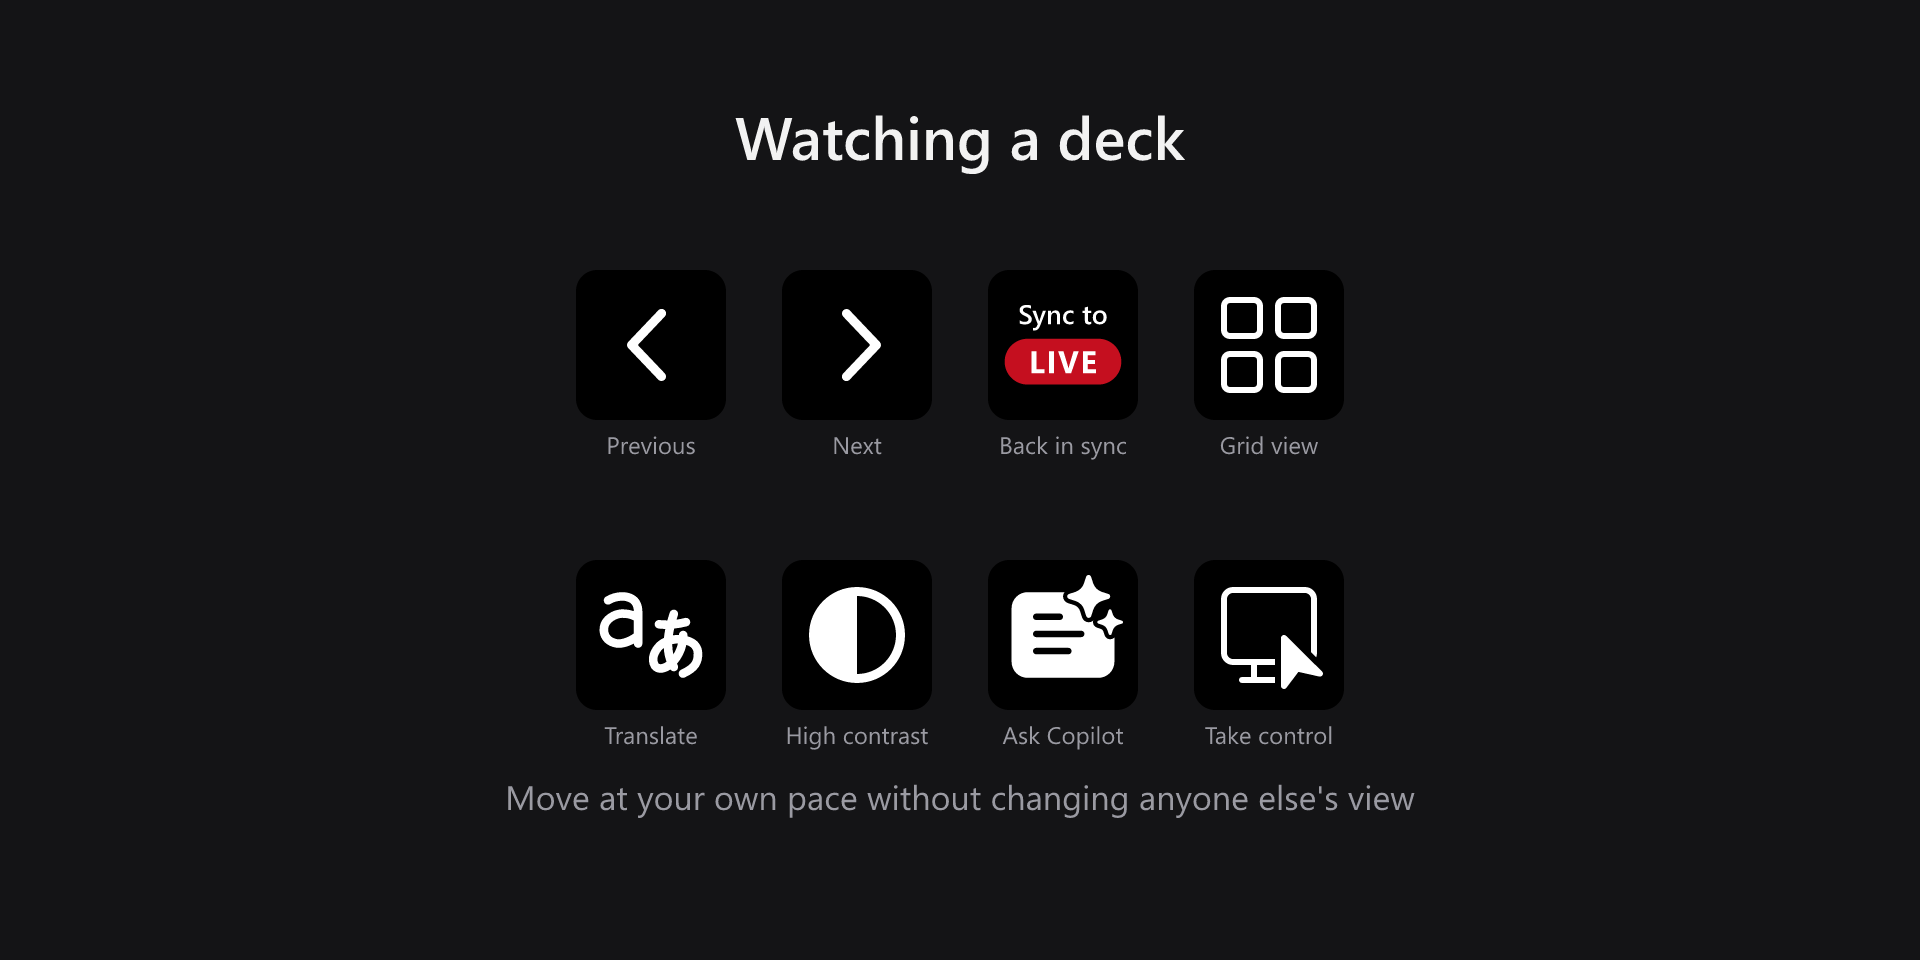
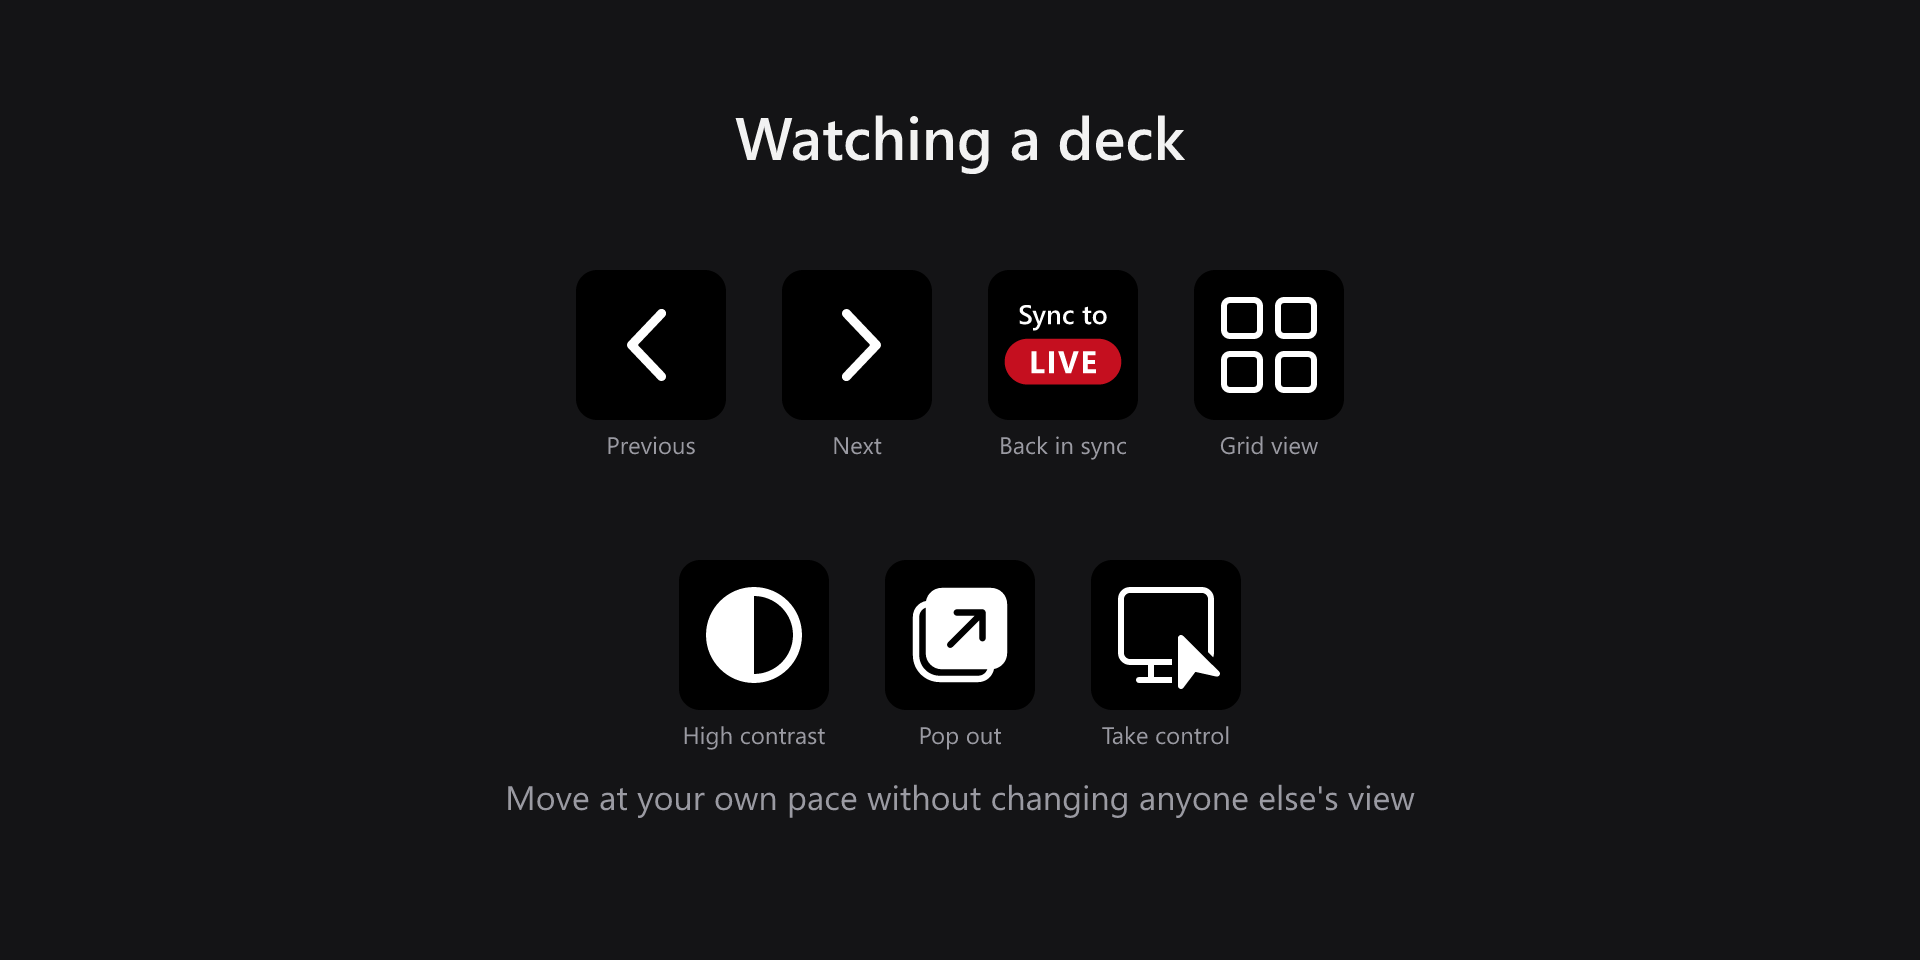
Withdraw Translate slides and Ask Copilot
Neither worked reliably enough to ship. Pulling them rather than leaving two
keys that look available and disappoint.

Removed everywhere they were reachable, not just from the action list: the
actions and their registrations, the sidecar selectors, the shipped
selectors.json, the glyphs, the generated artwork, the translate inspector and
both property-inspector descriptions. Thirty-five actions become thirty-three.

They also sat at 1,1 and 2,1 on the attendee profile. Rather than leave holes,
Pop out and Take control move left and the row is completed with Share and
Background blur - the meeting controls an attendee is most likely to want
while someone else drives the deck.

Copy went with them. The listing description, both release-notes blocks, the
repository README and the key table all advertised translation in 19 languages
and asking Copilot. The gallery item for watching a deck was regenerated, since
it showed both keys.

Two things found while doing it:

- The manifest Description has been mojibake since before this change - an em
  dash stored as three CP1252 characters, so Stream Deck was displaying
  "more â€" with live state". Fixed, and reworded to a comma so an edit through
  a tool that guesses the encoding cannot reintroduce it.
- A C# test used ppt-translate as its example of a two-level menu. The parser
  still supports nesting and selectors.json is user-editable, so the coverage
[…]

Changed region(s): [[0.3125, 0.5938, 0.6875, 0.7188], [0.3125, 0.75, 0.6875, 0.7812]]

diff --git a/src/actions/powerpoint.ts b/src/actions/powerpoint.ts
@@ -107,12 +107,6 @@ export class PptPopoutAction extends PptAction {
 	protected override readonly glyph = "pptPopout";
 }
 
-@action({ UUID: "com.bad-duck.teamscontrol.ppt-copilot" })
-export class PptCopilotAction extends PptAction {
-	protected override readonly control = "ppt-copilot";
-	protected override readonly glyph = "pptCopilot";
-}
-
 /**
  * Views the slides in high contrast, for you only.
  *
@@ -167,40 +161,7 @@ export class PptSyncAction extends TeamsAction {
 	}
 
 	protected override draw(state: TeamsState): string {
-		// Gold rather than white: this key lighting up means you are out of step
-		// with the presenter, not merely that a control is available.
 		return renderLive(usable(state, "ppt-sync"));
-	}
-}
-
-type TranslateSettings = {
-	/**
-	 * Teams' own id for the language, which is the endonym ("Deutsch",
-	 * "日本語"), plus "Original" to turn translation back off. Stored rather
-	 * than a locale code because the id is what the menu item carries.
-	 */
-	language?: string;
-};
-
-const DEFAULT_LANGUAGE = "Original";
-
-/**
- * Translates the shared slides. One action covers every language: the sidecar
- * substitutes the chosen value into the menu-item selector, so adding a
- * language Teams later ships needs no plugin change.
- */
-@action({ UUID: "com.bad-duck.teamscontrol.ppt-translate" })
-export class PptTranslateAction extends TeamsAction<TranslateSettings> {
-	protected override targetFor(): string {
-		return "ppt-translate";
-	}
-
-	protected override argFor(settings: TranslateSettings): string {
-		return settings.language || DEFAULT_LANGUAGE;
-	}
-
-	protected override draw(state: TeamsState): string {
-		return renderSimple("pptTranslate", usable(state, "ppt-translate"));
 	}
 }
 

diff --git a/com.bad-duck.teamscontrol.sdPlugin/ui/action-descriptions.js b/com.bad-duck.teamscontrol.sdPlugin/ui/action-descriptions.js
@@ -62,8 +62,6 @@ globalThis.ACTION_DESCRIPTIONS = {
 	"com.bad-duck.teamscontrol.ppt-high-contrast":
 		"Switches the slides to high contrast for you only - the presenter and everyone else see them unchanged. A toggle, so the key shows whether it is on.",
 
-	"com.bad-duck.teamscontrol.ppt-translate":
-		"Translates the slides into the language chosen below, for your view only. Attendee only. Teams offers a language only once the presenter's deck has been processed, so one it is not ready for is reported as a failed press.",
 
 	"com.bad-duck.teamscontrol.ppt-take-control":
 		"Takes control of a deck someone else is presenting. Attendee only, and the one key that changes your role: a successful press makes you the presenter, which dims this key and lights up the presenter keys.",
@@ -71,8 +69,6 @@ globalThis.ACTION_DESCRIPTIONS = {
 	"com.bad-duck.teamscontrol.ppt-popout":
 		"Moves the shared content into its own window, so you can put it on another screen.",
 
-	"com.bad-duck.teamscontrol.ppt-copilot":
-		"Opens Copilot for the deck, so you can select and drag text on a slide to ask about it. Attendee only.",
 
 	"com.bad-duck.teamscontrol.ppt-laser":
 		"Selects the laser pointer. The drawing tools are a single-select group, so the key lights while this is the active tool and follows the tool you pick in Teams' own toolbar. The key is drawn in the colour the pointer will actually use. Presenter only.",

diff --git a/src/plugin.ts b/src/plugin.ts
@@ -16,7 +16,6 @@ import {
 	ShareAction
 } from "./actions/controls";
 import {
-	PptCopilotAction,
 	PptCopyLinkAction,
 	PptCursorAction,
 	PptEraserAction,
@@ -36,8 +35,7 @@ import {
 	PptStatusAction,
 	PptStopPresentingAction,
 	PptSyncAction,
-	PptTakeControlAction,
-	PptTranslateAction
+	PptTakeControlAction
 } from "./actions/powerpoint";
 import { bridge } from "./bridge";
 import { profileSwitcher } from "./profiles";
@@ -65,10 +63,8 @@ streamDeck.actions.registerAction(new PptStatusAction());
 streamDeck.actions.registerAction(new PptSyncAction());
 streamDeck.actions.registerAction(new PptGridAction());
 streamDeck.actions.registerAction(new PptHighContrastAction());
-streamDeck.actions.registerAction(new PptTranslateAction());
 streamDeck.actions.registerAction(new PptTakeControlAction());
 streamDeck.actions.registerAction(new PptPopoutAction());
-streamDeck.actions.registerAction(new PptCopilotAction());
 
 // PowerPoint Live, presenting. Unavailable unless you are the one sharing.
 streamDeck.actions.registerAction(new PptCursorAction());

diff --git a/tools/build-profile.ts b/tools/build-profile.ts
@@ -82,12 +82,12 @@ const PROFILES: Profile[] = [
 			"4,0": { action: "ppt-high-contrast", name: "PPT Live: High Contrast" },
 
 			"0,1": { action: "ppt-sync", name: "PPT Attendee: Sync" },
-			"1,1": { action: "ppt-translate", name: "PPT Attendee: Translate Slides" },
-			"2,1": { action: "ppt-copilot", name: "PPT Attendee: Ask Copilot" },
-			"3,1": { action: "ppt-popout", name: "PPT Live: Pop Out" },
+			"1,1": { action: "ppt-popout", name: "PPT Live: Pop Out" },
 			// Taking control makes you the presenter, which swaps this whole
 			// profile out for the presenter one.
-			"4,1": { action: "ppt-take-control", name: "PPT Attendee: Take Control" },
+			"2,1": { action: "ppt-take-control", name: "PPT Attendee: Take Control" },
+			"3,1": { action: "share", name: "Share Screen" },
+			"4,1": { action: "blur", name: "Background Blur" },
 
 			// The meeting basics stay reachable, so being moved onto a
 			// presentation layout never costs you the mute key.

diff --git a/tools/build-glyphs.ts b/tools/build-glyphs.ts
@@ -62,7 +62,6 @@ const CONTROLS: Record<string, string> = {
 	// fills the left half, which is why the earlier stand-in needed rotating and
 	// this does not.
 	pptContrast: "dark_theme_20_filled",
-	pptTranslate: "translate_28_filled",
 	// Captured from the live attendee toolbar on 2026-09-18: Teams draws a
 	// monitor with a cursor, not a pointing hand. Outline rather than filled,
 	// matching the toolbar's resting state. Teams ships this icon re-minified -
@@ -71,7 +70,6 @@ const CONTROLS: Record<string, string> = {
 	// at the shape calls it what it is.
 	pptTakeControl: "desktop_cursor_20_regular",
 	pptPopout: "window_new_28_filled",
-	pptCopilot: "slide_text_sparkle_28_filled",
 	pptSlide: "slide_text_28_filled",
 
 	// Presenter tools, drawn in PowerPoint Live's own colours (see TOOL_COLORS).

diff --git a/tools/generate-icons.ts b/tools/generate-icons.ts
@@ -33,10 +33,8 @@ const ACTIONS: Record<string, { glyph: string; danger?: boolean }> = {
 	"ppt-sync": { glyph: "pptSync" },
 	"ppt-grid": { glyph: "pptGrid" },
 	"ppt-high-contrast": { glyph: "pptContrast" },
-	"ppt-translate": { glyph: "pptTranslate" },
 	"ppt-take-control": { glyph: "pptTakeControl" },
 	"ppt-popout": { glyph: "pptPopout" },
-	"ppt-copilot": { glyph: "pptCopilot" },
 
 	// PowerPoint Live, presenting. The five drawing tools are handled separately
 	// below: they ship Teams' own artwork rather than a Fluent stand-in.

diff --git a/tools/generate-marketplace.ts b/tools/generate-marketplace.ts
@@ -297,9 +297,8 @@ function galleryWatching(): string {
 
 	body += row(
 		[
-			{ svg: renderSimple("pptTranslate", true), caption: "Translate" },
 			{ svg: renderSimple("pptContrast", true), caption: "High contrast" },
-			{ svg: renderSimple("pptCopilot", true), caption: "Ask Copilot" },
+			{ svg: renderSimple("pptPopout", true), caption: "Pop out" },
 			{ svg: renderSimple("pptTakeControl", true), caption: "Take control" }
 		],
 		560,

diff --git a/sidecar/tests/SelectorConfigTests.cs b/sidecar/tests/SelectorConfigTests.cs
@@ -243,24 +243,27 @@ public class SelectorConfigTests : IDisposable
     }
 
     [Fact]
-    public void ParseConfig_reads_the_two_level_menu_fields_slide_translation_needs()
+    public void ParseConfig_reads_the_two_level_menu_fields_a_nested_item_needs()
     {
+        // No shipped control is nested two levels deep now that slide
+        // translation has been withdrawn, but the parser still supports it and
+        // a selectors.json is user-editable, so the fields stay covered.
         var cfg = Program.ParseConfig("""
             {
               "controls": {
-                "ppt-translate": {
+                "nested-example": {
                   "menu": "toolbarChangeViewButton",
-                  "submenu": "toolbarTranslateSlidesOverflowButton",
-                  "menuItemAutomationId": "toolbarTranslateSlidesLanguageMenuItem-{arg}"
+                  "submenu": "someOverflowButton",
+                  "menuItemAutomationId": "someLanguageMenuItem-{arg}"
                 }
               }
             }
             """);
 
-        var spec = cfg!.Controls["ppt-translate"];
+        var spec = cfg!.Controls["nested-example"];
         Assert.Equal("toolbarChangeViewButton", spec.Menu);
-        Assert.Equal("toolbarTranslateSlidesOverflowButton", spec.Submenu);
-        Assert.Equal("toolbarTranslateSlidesLanguageMenuItem-{arg}", spec.MenuItemAutomationId);
+        Assert.Equal("someOverflowButton", spec.Submenu);
+        Assert.Equal("someLanguageMenuItem-{arg}", spec.MenuItemAutomationId);
     }
 
     [Fact]
@@ -588,8 +591,8 @@ public class SelectorConfigTests : IDisposable
 
         var hosted = new[]
         {
-            "ppt-prev", "ppt-next", "ppt-grid", "ppt-sync", "ppt-copilot",
-            "ppt-high-contrast", "ppt-translate", "ppt-hide-presenter-view",
+            "ppt-prev", "ppt-next", "ppt-grid", "ppt-sync",
+            "ppt-high-contrast", "ppt-hide-presenter-view",
             "ppt-refresh", "ppt-copy-link",
             "ppt-cursor", "ppt-laser", "ppt-pen", "ppt-highlighter", "ppt-eraser"
         };

diff --git a/sidecar/Defaults.cs b/sidecar/Defaults.cs
@@ -114,7 +114,6 @@ public static class Defaults
             // slide, so its presence is exactly the "viewing privately" signal.
             ["ppt-sync"] = new() { AutomationId = "syncToPresenterToolbarButton", Surface = "slideShow" },
 
-            ["ppt-copilot"] = new() { AutomationId = "inkToExplainToolbarButton", Surface = "slideShow" },
 
             // Moves the shared content into its own window.
             ["ppt-popout"] = new() { AutomationId = "popout-content-button" },
@@ -139,23 +138,6 @@ public static class Defaults
                 MenuItemAutomationId = "toolbarHighContrastOverflowButton"
             },
 
-            // Slide translation sits one level deeper, behind "Translate
-            // slides". "{arg}" is replaced with the language the key is set to;
-            // the ids are endonyms ("Deutsch", "日本語") and "Original" turns
-            // translation back off, so they are stable across Teams' own
-            // display language.
-            //
-            // Attendee-only: a presenter's "Change view" menu has no translation
-            // entry at all, since translating your own deck for yourself would
-            // mean nothing.
-            ["ppt-translate"] = new()
-            {
-                Surface = "slideShow",
-                Menu = "toolbarChangeViewButton",
-                Submenu = "toolbarTranslateSlidesOverflowButton",
-                MenuItemAutomationId = "toolbarTranslateSlidesLanguageMenuItem-{arg}",
-                RequiresRole = "attendee"
-            },
 
             // ---- PowerPoint Live, presenting ----
             // Captured while presenting on 2026-09-17. Note that zoom above is

diff --git a/marketplace/README.md b/marketplace/README.md
@@ -49,7 +49,7 @@ carry the requirements and the differentiator rather than a preamble.
 ```
 Control Microsoft Teams meetings from your Stream Deck: mute, camera, raise hand, the five reactions, background blur, screen share, chat, people and leave. Every key shows the real state of the meeting, so a muted mic looks muted before you press it.
 
-Full PowerPoint Live control too. Watching a deck? Move through slides at your own pace, jump back in sync with the presenter, open grid view, ask Copilot, or translate the slides into 19 languages, all without touching anyone else's view. Presenting? Slide navigation, laser pointer, pen, highlighter and eraser, presenter view, private view, layout and stop sharing, with a live slide counter on the key. Keys follow your role, so taking control mid-meeting re-lights the deck for presenting.
+Full PowerPoint Live control too. Watching a deck? Move through slides at your own pace, jump back in sync with the presenter, open grid view, or pop the deck into its own window, all without touching anyone else's view. Presenting? Slide navigation, laser pointer, pen, highlighter and eraser, presenter view, private view, layout and stop sharing, with a live slide counter on the key. Keys follow your role, so taking control mid-meeting re-lights the deck for presenting.
 
 Three bundled profiles can follow the meeting on their own: meeting controls when you join, attendee or presenter tools when a deck goes up, and back again when it ends.
 
@@ -60,7 +60,7 @@ Keys dim when no meeting is running, so there is nothing to press by mistake.
 Requires Windows 10 or later, Stream Deck 7.1 or later, and the Microsoft Teams desktop app. Windows only. Not affiliated with or endorsed by Microsoft.
 ```
 
-1,405 characters, within the 1,500 limit and above the 250 minimum. The opening
+1,386 characters, within the 1,500 limit and above the 250 minimum. The opening
 two sentences run to 251 characters, so the search-engine snippet reads as
 complete sentences rather than breaking mid-clause.
 
@@ -139,9 +139,9 @@ someone who has the plugin installed but has never read a commit.
 PowerPoint Live control, and profiles that follow the meeting.
 
 POWERPOINT LIVE
-Twenty-two new actions.
+Twenty new actions.
 
-Watching a deck: move through slides at your own pace, jump back in sync with the presenter, grid view, high contrast, pop out, ask Copilot, translate into 19 languages, and take control.
+Watching a deck: move through slides at your own pace, jump back in sync with the presenter, grid view, high contrast, pop out, and take control.
 
 Presenting: laser pointer, pen, highlighter, eraser, cursor, presenter view, private view, present the latest version, copy link, layout, and stop sharing, with a live slide counter on the key. Ink keys show the colour you picked in Teams.
 
@@ -157,7 +157,7 @@ REQUIREMENTS
 Windows 10 or later, Stream Deck 7.1 or later, and the Microsoft Teams desktop app. Windows only.
 ```
 
-1,330 characters, within the 1,500 limit.
+1,284 characters, within the 1,500 limit.
 
 ### First-release notes — reference only
 
@@ -173,7 +173,7 @@ MEETINGS
 Mute, camera, raise hand, five reactions (like, love, applause, laugh, wow), background blur, screen share, chat, people, and leave.
 
 POWERPOINT LIVE
-Watching a deck: move through slides at your own pace, jump back in sync with the presenter, grid view, high contrast, pop out, ask Copilot, translate into 19 languages, and take control.
+Watching a deck: move through slides at your own pace, jump back in sync with the presenter, grid view, high contrast, pop out, and take control.
 
 Presenting: laser pointer, pen, highlighter, eraser, cursor, presenter view, private view, present the latest version, copy link, layout, and stop sharing, with a live slide counter on the key.
 
@@ -194,7 +194,7 @@ Windows 10 or later, Stream Deck 7.1 or later, and the Microsoft Teams desktop a
 Not affiliated with or endorsed by Microsoft.
 ```
 
-1,491 characters, within the 1,500 limit. It describes the plugin as it stands
+1,449 characters, within the 1,500 limit. It describes the plugin as it stands
 rather than what changed, because a first-time reader has no previous build to
 compare against.
 

diff --git a/README.md b/README.md
@@ -84,8 +84,6 @@ reports itself unavailable in the other one.
 |---|---|---|
 | **PPT Live: Sync to Presenter** | ✅ lights up when out of sync | Teams only shows this button once you have browsed away, so the key being lit *is* the "you are viewing privately" signal |
 | **PPT Live: Take Control** | availability only | ⚠ Makes you the presenter — see below |
-| **PPT Live: Translate Slides** | availability only | 20 languages, chosen per key. Your screen only |
-| **PPT Live: Ask Copilot** | availability only | Select and drag slide text to ask Copilot about it |
 
 **Driving (presenter)**
 
@@ -103,7 +101,7 @@ reports itself unavailable in the other one.
 
 **Take control** is the one key that changes which set you get. Press it as an
 attendee and Teams makes you the presenter: that key retires, *Sync to
-presenter*, *Translate* and *Ask Copilot* go with it, and the drawing tools,
+presenter* goes with it, and the drawing tools,
 *Private view* and *Stop presenting* light up in their place.
 
 That switch lands a moment after the press returns, so the sidecar takes a
@@ -122,7 +120,7 @@ meeting goes:
 | when | profile |
 |---|---|
 | You join a meeting | **Teams Meeting** — mute, camera, reactions, chat, leave |
-| A deck starts, and you are watching | **PowerPoint Live (Attendee)** — navigation, sync, translate, take control |
+| A deck starts, and you are watching | **PowerPoint Live (Attendee)** — navigation, sync, take control |
 | A deck starts, and you are presenting | **PowerPoint Live (Presenter)** — navigation, drawing tools, presenter view, stop presenting |
 | The deck stops | back to **Teams Meeting** |
 | You leave the meeting | back to whichever profile you were on before |
